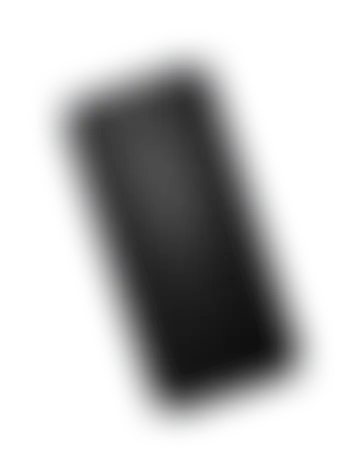
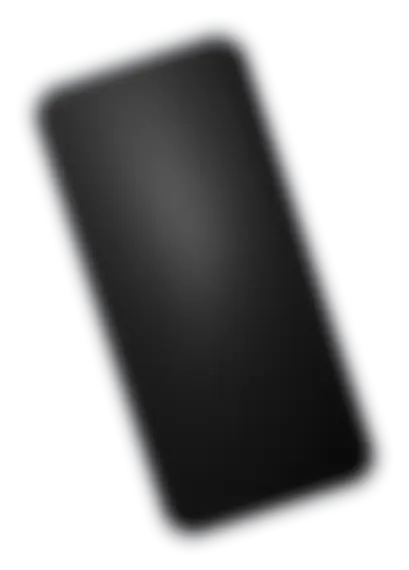
Desk: HD object layers, so the clicked object stays sharp when it zooms
- scene.py --hd renders the 7 clickable objects again with the same crop box,
  orientation, light and materials, at an integer multiple (x3-x7) of the
  final resolution: enough for 80% of a 2560x1440 window at 2x density.
  Saved as public/desk/hd/<id>.webp (about 1 MB in total).
- Page: the first screen loads only the background and normal layers. HD
  images preload one by one when the browser is idle after load; hovering an
  object loads its HD version first. The moving object shows HD from the first
  frame if it is ready, otherwise it starts with the normal layer and swaps
  when HD has loaded.
- The push-in zooms again (object to ~80% of the window height); the blurred
  object images are regenerated for that size.

diff --git a/app/page.tsx b/app/page.tsx
@@ -7,6 +7,7 @@ import { SECTIONS, type Section, type SectionId } from "./content";
 import { HAS_GENERATED_DESK } from "./assets";
 import { PanelBody } from "./panels";
 import { useResume } from "./resume";
+import { hdReady, hdSrc, loadHd, preloadHd } from "./hd";
 import desk from "./desk-hotspots.json";
 import blur from "./desk-blur.json"; // 虚化用的小图，由 desk3d/blur.mjs 生成
 
@@ -134,6 +135,8 @@ const hashOf = (id: SectionId) => SECTIONS.find((s) => s.id === id)?.title.repla
 const sectionOfHash = (hash: string) =>
   DOCK_ORDER.find((id) => hashOf(id) === decodeURIComponent(hash.replace(/^#/, "")));
 
+const ZOOM_H = 0.8; // 推进后物件占窗口高度（desk3d/blur.mjs、scene.py --hd 按这个数准备图）
+const ZOOM_W = 0.9;
 const EASE_OUT = [0.16, 1, 0.3, 1] as const;
 const T = {
   zoom: { duration: 0.45, ease: EASE_OUT },
@@ -155,6 +158,7 @@ const CLOSE_MS = 600;
 
 type Pose = { x: number; y: number; scale: number; rotate: number };
 type Flight = { layer: Layer; rect: Box; to: Pose };
+// 推进的终点：移到画面中心、摆正，放大到物件占窗口高度约 80%
 const HOME: Pose = { x: 0, y: 0, scale: 1, rotate: 0 };
 
 function planFlight(scene: DOMRect, layerId: string): Flight | null {
@@ -167,19 +171,34 @@ function planFlight(scene: DOMRect, layerId: string): Flight | null {
     width: (layer.width / 100) * scene.width,
     height: (layer.height / 100) * scene.height,
   };
-  // 不放大：保持原来的大小，只移到画面中心并摆正
+  // 摆正后的物件大小 = 点击框（未旋转的物件外框）
+  const ow = (hotspot.width / 100) * scene.width;
+  const oh = (hotspot.height / 100) * scene.height;
+  const vw = window.innerWidth;
+  const vh = window.innerHeight;
   const to = {
-    x: window.innerWidth / 2 - (rect.left + rect.width / 2),
-    y: window.innerHeight / 2 - (rect.top + rect.height / 2),
-    scale: 1,
+    x: vw / 2 - (rect.left + rect.width / 2),
+    y: vh / 2 - (rect.top + rect.height / 2),
+    scale: Math.min((ZOOM_H * vh) / oh, (ZOOM_W * vw) / ow),
     rotate: -(hotspot.rotate ?? 0),
   };
   return { layer, rect, to };
 }
 
-// 移到中心的物件：清晰图（和原位同一份，已缓存）→ 淡入替换成模糊图
+// 推进的物件：普通版本（已缓存）打底，高清版本盖在上面（同一裁切框，像素对齐）。
+// 高清图预加载好了就从第一帧开始显示；还没好就先用普通版本，加载完再换上。
+// 虚化时淡入替换成模糊图。飞回原位后这个元素移除，桌上的普通版本重新显示。
 function Hero({ flight }: { flight: Flight }) {
   const { layer, rect } = flight;
+  const [hd, setHd] = useState(() => hdReady(layer.id));
+  const [late] = useState(() => !hdReady(layer.id));
+  useEffect(() => {
+    let live = true;
+    loadHd(layer.id, true).then((ok) => live && ok && setHd(true));
+    return () => {
+      live = false;
+    };
+  }, [layer.id]);
   const b = (blur.layers as Record<string, { src: string; padX: number; padY: number }>)[layer.id];
   return (
     <motion.div
@@ -197,6 +216,17 @@ function Hero({ flight }: { flight: Flight }) {
         exit={{ opacity: 1, transition: { duration: 0.08 } }}
       >
         <Image src={layer.src} alt="" fill sizes={layerSizes(layer)} />
+        {/* 加载成功后才放进页面（失败时不出现破图） */}
+        {hd && (
+          // eslint-disable-next-line @next/next/no-img-element
+          <img
+          className="hero-hd"
+          src={hdSrc(layer.id)}
+          alt=""
+          decoding="async"
+          style={late ? { animation: "hd-in 0.15s ease-out" } : undefined}
+        />
+        )}
       </motion.div>
       {b && (
         <motion.img
@@ -323,6 +353,12 @@ export default function Home() {
     window.addEventListener("popstate", handler);
     return () => window.removeEventListener("popstate", handler);
   }, []);
+
+  // 高清物件：首屏加载完、浏览器空闲时预加载（手机阅读模式不加载）
+  useEffect(() => {
+    if (reading) return;
+    return preloadHd(LAYERS.filter((l) => l.clickable).map((l) => l.id));
+  }, [reading]);
 
   // 预先加载模糊图（很小，一共约 190 KB），点开时马上能用
   useEffect(() => {
@@ -468,7 +504,10 @@ export default function Home() {
                     className={`hot${h.round ? " round" : ""}${debug ? " debug" : ""}`}
                     style={{ ...pos(h), "--r": `${r}deg` } as CSSProperties}
                     onClick={(e) => openSection(t.section, e.currentTarget)}
-                    onMouseEnter={() => hoverOn(h.id)(true)}
+                    onMouseEnter={() => {
+                      hoverOn(h.id)(true);
+                      loadHd(h.id, true); // 悬停的物件优先加载高清图
+                    }}
                     onMouseLeave={() => hoverOn(h.id)(false)}
                     // 键盘聚焦时也抬起；关闭面板后焦点回来时（鼠标操作）不抬
                     onFocus={(e) => e.currentTarget.matches(":focus-visible") && hoverOn(h.id)(true)}

diff --git a/app/hd.ts b/app/hd.ts
@@ -1,0 +1,56 @@
+// 物件的高清版本（desk3d/scene.py --hd 渲染，public/desk/hd/<id>.webp）。
+// 和普通物件层同一个裁切框、同样的朝向，只是分辨率更高，放大推进时换上去不会错位。
+// 首屏不加载；页面加载完、浏览器空闲时逐张预加载，鼠标悬停的那个优先。
+
+export const hdSrc = (id: string) => `/desk/hd/${id}.webp`;
+
+const pending = new Map<string, Promise<boolean>>();
+const ready = new Set<string>();
+const keep: HTMLImageElement[] = []; // 留着引用，解码结果不被回收
+
+export const hdReady = (id: string) => ready.has(id);
+
+// 返回是否加载成功（失败就一直用普通版本）
+export function loadHd(id: string, urgent = false): Promise<boolean> {
+  let p = pending.get(id);
+  if (!p) {
+    const img = new Image();
+    img.decoding = "async";
+    if (urgent) img.fetchPriority = "high";
+    img.src = hdSrc(id);
+    keep.push(img);
+    p = img
+      .decode()
+      .then(() => {
+        ready.add(id);
+        return true;
+      })
+      .catch(() => false);
+    pending.set(id, p);
+  }
+  return p;
+}
+
+// 首屏加载完成后，空闲时一张一张地预加载（不和首屏抢带宽）
+export function preloadHd(ids: string[]) {
+  const conn = (navigator as Navigator & { connection?: { saveData?: boolean } }).connection;
+  if (conn?.saveData) return () => {};
+  let stopped = false;
+  // Safari 没有 requestIdleCallback
+  const idle = (fn: () => void) =>
+    typeof window.requestIdleCallback === "function"
+      ? window.requestIdleCallback(fn, { timeout: 3000 })
+      : setTimeout(fn, 200);
+  const next = async (i: number) => {
+    if (stopped || i >= ids.length) return;
+    await loadHd(ids[i]);
+    idle(() => next(i + 1));
+  };
+  const start = () => idle(() => next(0));
+  if (document.readyState === "complete") start();
+  else window.addEventListener("load", start, { once: true });
+  return () => {
+    stopped = true;
+    window.removeEventListener("load", start);
+  };
+}

diff --git a/app/globals.css b/app/globals.css
@@ -111,6 +111,8 @@ button { font: inherit; color: inherit; background: none; border: 0; cursor: poi
 .hero { position: fixed; z-index: 9; pointer-events: none; }
 .hero img { user-select: none; }
 .hero-sharp { position: absolute; inset: 0; }
+.hero-hd { position: absolute; inset: 0; width: 100%; height: 100%; display: block; }
+@keyframes hd-in { from { opacity: 0; } }
 .hero-blur { position: absolute; max-width: none; }
 
 /* 居中的面板 */

diff --git a/desk3d/scene.py b/desk3d/scene.py
@@ -9,6 +9,7 @@ windows instead of the objects spreading out. The page fits the CORE region
     Blender -b -P desk3d/scene.py                          # preview  -> desk3d/renders/preview-*.png
     Blender -b -P desk3d/scene.py -- --verify              # preview + check layers rebuild the full render
     Blender -b -P desk3d/scene.py -- --mode final          # final -> public/desk/scene.jpg + public/desk/layers/*.png
+    Blender -b -P desk3d/scene.py -- --hd                  # HD object layers only -> public/desk/hd/*.webp
     DESK3D_CHECK_ONLY=1 Blender -b -P desk3d/scene.py      # layout checks only, no render
 
 Final output
@@ -16,6 +17,10 @@ Final output
                                but with the shadows they cast
   public/desk/layers/<id>.png  each clickable object + the earbuds, transparent,
                                cropped to its bounding box
+  public/desk/hd/<id>.webp     (--hd) the same 7 clickable layers, same crop and
+                               orientation, at an integer multiple of the final
+                               resolution: sharp when the page zooms the object
+                               to 80% of a 2560x1440 window at 2x pixel density
   app/desk-hotspots.json       image size, core region, click areas, layer boxes
                                (percent of the image)
 
@@ -62,6 +67,8 @@ ap.add_argument("--mode", choices=["preview", "final"], default="preview")
 ap.add_argument("--samples", type=int, default=None, help="override samples")
 ap.add_argument("--json-only", action="store_true",
                 help="final resolution, write app/desk-hotspots.json only (no render)")
+ap.add_argument("--hd", action="store_true",
+                help="render only the HD versions of the clickable layers (final geometry)")
 ap.add_argument("--verify", action="store_true",
                 help="also render the full scene and compare it with background + layers")
 args = ap.parse_args(argv)
@@ -73,7 +80,7 @@ MODES = {
     "final": dict(res=RES_FINAL, samples=256, bg="public/desk/scene.jpg",
                   layers="public/desk/layers", fmt="JPEG", copy="desk3d/renders/final-bg.jpg"),
 }
-MODE = MODES["final" if args.json_only else args.mode]
+MODE = MODES["final" if args.json_only or args.hd else args.mode]
 W, H = MODE["res"]
 
 # ---------------------------------------------------------------------------
@@ -713,22 +720,26 @@ def camera_visible(objs):
         ob.visible_camera = ob in objs
 
 
-def render_to(path, fmt, transparent=False, box=None):
+def render_to(path, fmt, transparent=False, box=None, scale=1):
+    scene.render.resolution_x, scene.render.resolution_y = W * scale, H * scale
     scene.render.film_transparent = transparent
     scene.render.use_border = box is not None
     scene.render.use_crop_to_border = box is not None
     if box:
         x0, y0, x1, y1 = box
         # border is from the bottom-left; +0.25 px keeps rounding on the right pixel
-        scene.render.border_min_x = (x0 + 0.25) / W
-        scene.render.border_max_x = (x1 + 0.25) / W
-        scene.render.border_min_y = (H - y1 + 0.25) / H
-        scene.render.border_max_y = (H - y0 + 0.25) / H
+        e = 0.25 / scale
+        scene.render.border_min_x = (x0 + e) / W
+        scene.render.border_max_x = (x1 + e) / W
+        scene.render.border_min_y = (H - y1 + e) / H
+        scene.render.border_max_y = (H - y0 + e) / H
     s = scene.render.image_settings
     s.file_format = fmt
     s.color_mode = "RGBA" if transparent else "RGB"
     if fmt == "JPEG":
         s.quality = 90
+    if fmt == "WEBP":
+        s.quality = HD_QUALITY
     scene.render.filepath = path
     bpy.ops.render.render(write_still=True)
 
@@ -737,6 +748,31 @@ def abs_path(rel):
     p = os.path.join(ROOT, rel)
     os.makedirs(os.path.dirname(p), exist_ok=True)
     return p
+
+
+# --hd: each clickable object again, same crop box, at an integer multiple of the
+# final resolution (integer, so the crop lands on the same pixels and the HD
+# image lines up exactly with the normal layer). The multiple is chosen so the
+# object's upright height reaches HD_TARGET_PX device pixels: 80% of a
+# 1440 px-tall window at 2x density, which is how far the page zooms it.
+HD_TARGET_PX = 0.8 * 1440 * 2
+HD_QUALITY = 88
+if args.hd:
+    hd_dir = os.path.dirname(abs_path("public/desk/hd/x"))
+    for k in CLICKABLE:
+        obj_h = spots[k]["height"] / 100 * H  # upright object height, final px
+        f = math.ceil(HD_TARGET_PX / obj_h)
+        box = layer_boxes[k]
+        camera_visible(layered_objs[k])
+        path = os.path.join(hd_dir, f"{k}.webp")
+        render_to(path, "WEBP", transparent=True, box=box, scale=f)
+        img = bpy.data.images.load(path, check_existing=False)
+        got = tuple(img.size)
+        bpy.data.images.remove(img)
+        want = ((box[2] - box[0]) * f, (box[3] - box[1]) * f)
+        print(f"[desk3d] hd {k}: x{f} {got[0]}x{got[1]} (object {obj_h * f:.0f} px tall),"
+              f" {os.path.getsize(path) / 1024:.0f} KB" + ("" if got == want else f" WARNING expected {want}"))
+    sys.exit(0)
 
 
 # Background, in two passes so the desk under each object isn't a black hole
